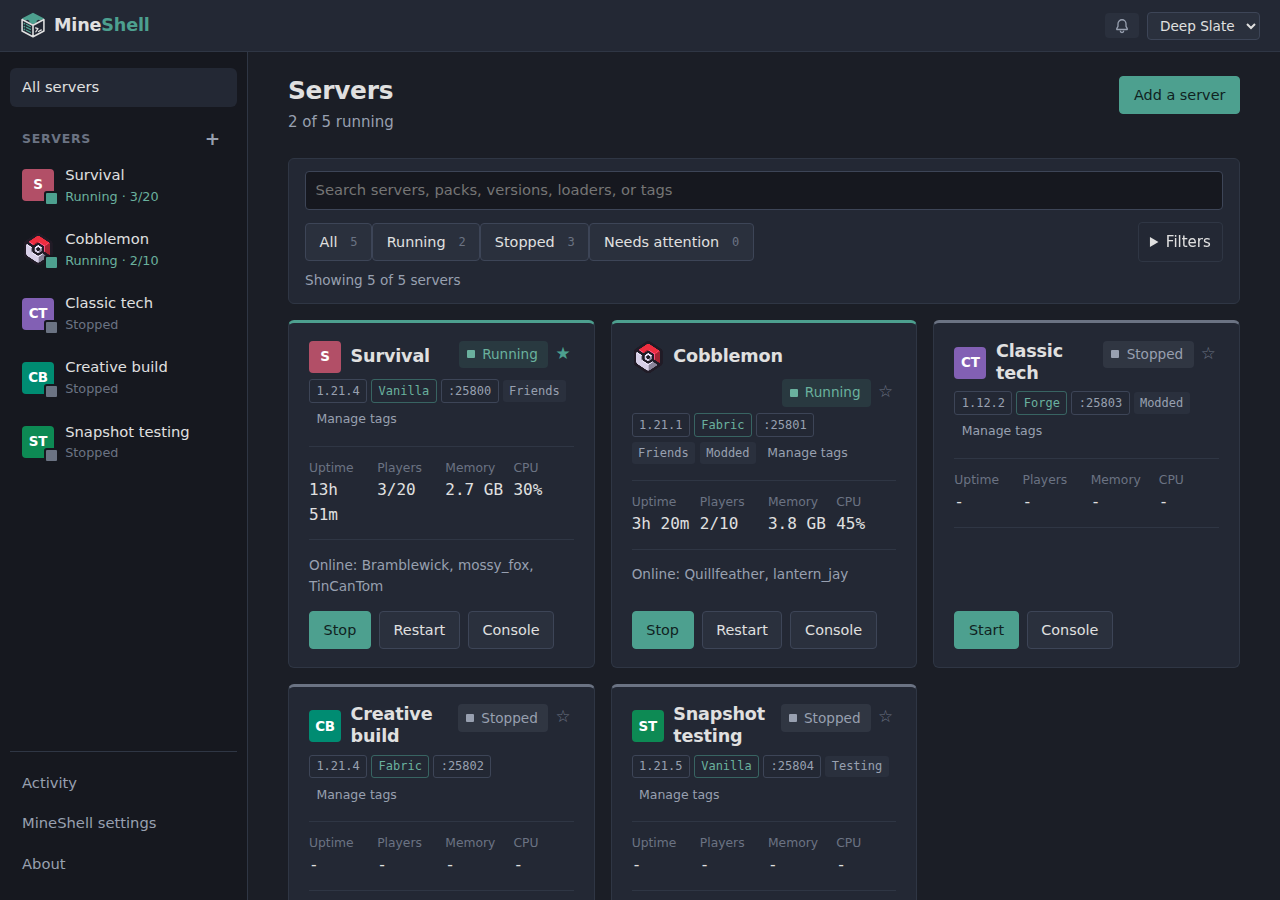
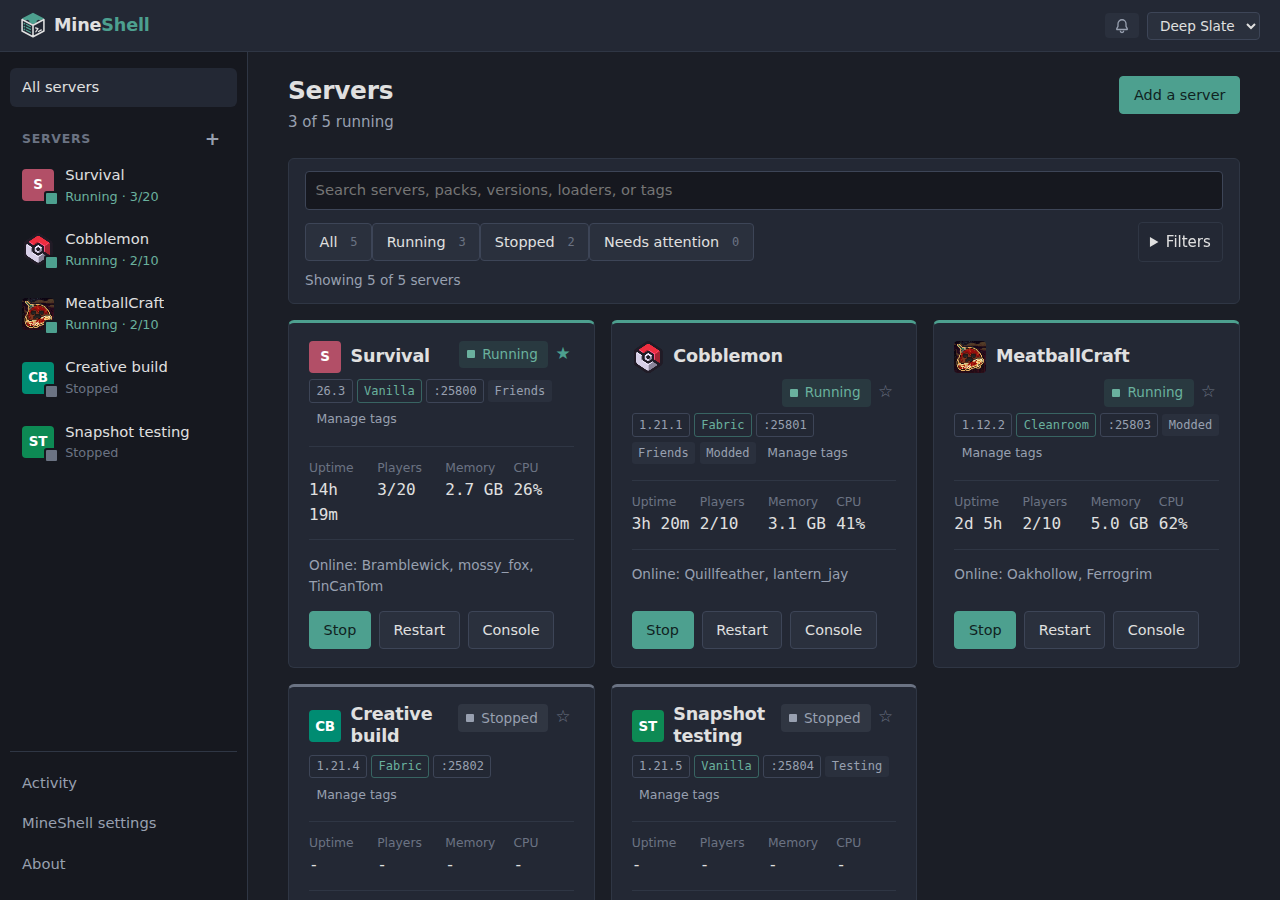
docs: screenshots show vanilla 26.3 and MeatballCraft on Cleanroom
The main server is now on the newest Minecraft (26.3), and the Forge
1.12.2 server became MeatballCraft on Cleanroom 0.5.17, running: old
Minecraft, a big pack and Cleanroom in one picture. Its pack version and
its ~370 mods (names, icons, sizes) come from CurseForge through the
modpacks.ch mirror, as MineShell reads them.

The fake server answers the 1.12 way for it: logger names on every line,
`forge tps`, "2/20 players online", a Forge mod-loading startup of four
minutes (the run MineShell is told of says the same). The fake Java is
registered as 25, which 26.x and Cleanroom 0.5 need.

diff --git a/tests/tools/screenshots/README.md b/tests/tools/screenshots/README.md
@@ -22,8 +22,10 @@ Modrinth, and the page loads mod icons.
 ## The parts
 
 - **`scenes.mjs`**: the world, as an ordered list of scenes, all run every time. `servers`
-  (five servers, two running, tags), `history` (a day of CPU/memory samples, a week of runs
-  and player sessions), `mods` (the pack server's mods from Modrinth). A scene gets a context
+  (five servers, tags; running: vanilla 26.3, the Cobblemon pack on Fabric 1.21.1 and
+  MeatballCraft on Cleanroom 1.12.2), `history` (a day of CPU/memory samples, a week of runs
+  and player sessions), `mods` (Cobblemon's mods from Modrinth, MeatballCraft's ~370 from
+  CurseForge through the modpacks.ch mirror, with their real sizes). A scene gets a context
   (`run.mjs`, `Context`): `ctx.server({...})`, `ctx.tag(name, ids)`, `ctx.mod(id, {...})`,
   `ctx.sparseFile(path, bytes)`, `ctx.fetchJson(url)` and the database itself (`ctx.db`,
   better-sqlite3) for anything else. Seeded times are relative to now.
@@ -40,10 +42,12 @@ Modrinth, and the page loads mod icons.
   the uptime while printed at once: startup at the start time, players joining over the
   last hour and a half, chat lines at the gaps the scene gives (`[name, text, seconds after
   the line before]`); later lines (RCON, `say`) at real time.
+  Before 1.13 (Forge, Cleanroom) it logs and answers the old way: logger names on every line,
+  `forge tps`, "2/20 players online", a Forge mod-loading startup of `startSeconds`.
   `uptimeMinutes` makes it look started that long ago: MineShell's `systemctl` (only the
   throwaway server's, through `$DATA/bin/systemctl` first in its PATH) reports the unit's
   start time that much earlier, and the run it matches that with (`server_runs`, under the
-  run's real invocation) is written with the same start and its "Done (" 40 s later.
+  run's real invocation) is written with the same start and its "Done (" `startSeconds` later.
 - **Visits** (`visits` in `shots.mjs`): pages opened once before the pictures, for what the
   browser does on a first visit (a pack server's overview gives it the pack's icon).
 
